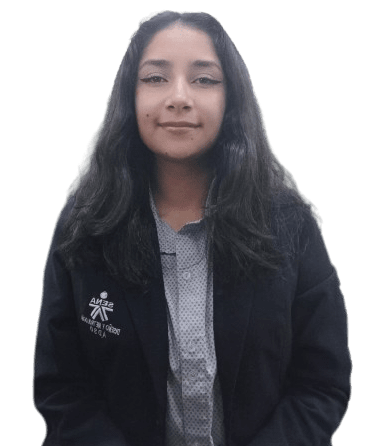
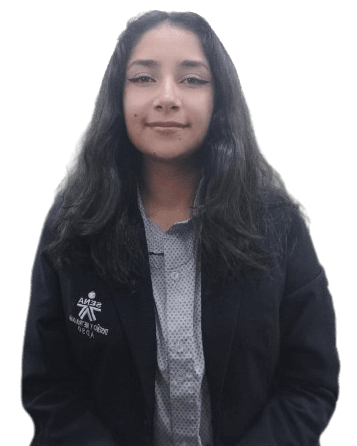
Cositas

diff --git a/Views/css/style.css b/Views/css/style.css
@@ -581,11 +581,6 @@ button {
   box-shadow: 0px 1px 3px 0px rgba(0, 0, 0, 0.1);
 }
 
-.card-height{
-  min-height: 260px !important;
-  max-height: 260px !important;
-}
-
 .num-donar{
   font-size:20px;
   color: #333333;

diff --git a/Views/clientSite/aboutUs.php b/Views/clientSite/aboutUs.php
@@ -60,13 +60,13 @@
       <div class="col-lg-12 pt-5 pt-lg-0 text-center">
         <div class="about-content">
           <h3 class="font-weight-bold">Introducción</h3>
-          <p class="">Con el imparable avance de la tecnología y la creciente demanda de soluciones innovadoras, es un privilegio presentar a nuestro excepcional team de tecnólogos en desarrollo de software que encarnan los valores fundamentales de un equipo sobresaliente y destacan por sus habilidades de programación excepcionales. Quedará claro cómo su dedicación a los principios del trabajo en equipo y su destreza en la programación se combinan para crear un conjunto verdaderamente ejemplar de talentos en el mundo del desarrollo de software.</p>
+          <p>Con el imparable avance de la tecnología y la creciente demanda de soluciones innovadoras, es un privilegio presentar a nuestro excepcional team de tecnólogos en desarrollo de software que encarnan los valores fundamentales de un equipo sobresaliente y destacan por sus habilidades de programación excepcionales. Quedará claro cómo su dedicación a los principios del trabajo en equipo y su destreza en la programación se combinan para crear un conjunto verdaderamente ejemplar de talentos en el mundo del desarrollo de software.</p>
         </div>
       </div>
       <div class="col-lg-12 pt-5 pt-lg-0 text-center">
         <div class="about-content">
           <h3 class="font-weight-bold">¿Cómo podemos ayudar?</h3>
-          <p class="">La colaboración y la diversidad de habilidades en nuesto equipo pueden dar lugar a soluciones innovadoras y creativas, puedemos implementar metodologías ágiles de desarrollo de software con eficiencia nuestra comunicación abierta y la colaboración constante permiten una rápida adaptación a los cambios, mejorando la calidad y la entrega puntual de los proyectos y nuestra combinación de habilidades técnicas sólidas y la capacidad de trabajo en equipo puede abordar problemas tecnológicos complejos de manera eficiente.</p>
+          <p>La colaboración y la diversidad de habilidades en nuesto equipo pueden dar lugar a soluciones innovadoras y creativas, puedemos implementar metodologías ágiles de desarrollo de software con eficiencia nuestra comunicación abierta y la colaboración constante permiten una rápida adaptación a los cambios, mejorando la calidad y la entrega puntual de los proyectos y nuestra combinación de habilidades técnicas sólidas y la capacidad de trabajo en equipo puede abordar problemas tecnológicos complejos de manera eficiente.</p>
         </div>
       </div>
     </div>
@@ -83,7 +83,7 @@
       </div>
       <div class="col-lg-2 col-sm-12 mt-5">
         <div class="card my-3 my-lg-0 p-0 cardsFotos">
-          <img class="card-img-top card-height" src="../../Uploads/usuarios/Santiago.png" class="img-fluid w-100" alt="Card image cap">
+          <img class="card-img-top img-fluid w-100" src="../../Uploads/usuarios/Santiago.png" alt="Card image cap">
           <div class="card-body bg-gray text-center">
             <h5 class="card-title">Santiago Gutiérrez</h5>
             <p class="card-text">Analista y Desarrollador de Software</p>
@@ -93,7 +93,7 @@
       </div>
       <div class="col-lg-2 col-sm-12 mt-5">
         <div class="card my-3 my-lg-0 p-0 cardsFotos">
-          <img class="card-img-top card-height" src="../../Uploads/usuarios/Diana.png" class="img-fluid w-100" alt="Card image cap">
+          <img class="card-img-top img-fluid w-100" src="../../Uploads/usuarios/Diana.png" alt="Card image cap">
           <div class="card-body bg-gray text-center">
             <h5 class="card-title">Diana Ramírez</h5>
             <p class="card-text">Analista y Desarrollador de Software</p>
@@ -103,7 +103,7 @@
       </div>
       <div class="col-lg-2 col-sm-12 mt-5">
         <div class="card my-3 my-lg-0 p-0 cardsFotos">
-          <img class="card-img-top card-height" src="../../Uploads/usuarios/Johan.png" class="img-fluid w-100" alt="Card image cap">
+          <img class="card-img-top img-fluid w-100" src="../../Uploads/usuarios/Johan.png" alt="Card image cap">
           <div class="card-body bg-gray text-center">
             <h5 class="card-title">Johan Echavez</h5>
             <p class="card-text">Analista y Desarrollador de Software</p>
@@ -113,7 +113,7 @@
       </div>
       <div class="col-lg-2 col-sm-12 mt-5">
         <div class="card my-3 my-lg-0 p-0 cardsFotos">
-          <img class="card-img-top card-height" src="../../Uploads/usuarios/Ricardo.png" class="img-fluid w-100" alt="Card image cap">
+          <img class="card-img-top img-fluid w-100" src="../../Uploads/usuarios/Ricardo.png" alt="Card image cap">
           <div class="card-body bg-gray text-center">
             <h5 class="card-title">Ricardo Reyes</h5>
             <p class="card-text">Analista y Desarrollador de Software</p>
@@ -123,7 +123,7 @@
       </div>
       <div class="col-lg-2 col-sm-12 mt-5">
         <div class="card my-3 my-lg-0 p-0 cardsFotos">
-          <img class="card-img-top card-height" src="../../Uploads/usuarios/Andersson.png" class="img-fluid w-100" alt="Card image cap">
+          <img class="card-img-top img-fluid w-100" src="../../Uploads/usuarios/Andersson.png" alt="Card image cap">
           <div class="card-body bg-gray text-center">
             <h5 class="card-title">Andersson Acosta</h5>
             <p class="card-text">Analista y Desarrollador de Software</p>

diff --git a/Models/consultas.php b/Models/consultas.php
@@ -1221,6 +1221,23 @@ class Consultas
         echo "<script> location.href='../Views/homeAdministrador/perfil.php' </script>";
     }
 
+    public function actualizarFotoCliente($id, $foto){
+        $objConexion = new Conexion();
+        $conexion = $objConexion->get_conexion();
+
+        $actualizar = " UPDATE tbl_users SET foto=:foto WHERE id_user=:id ";
+        $result = $conexion->prepare($actualizar);
+
+        $result->bindParam(":id", $id);
+        $result->bindParam(":foto", $foto);
+
+
+        $result->execute();
+
+        echo '<script> alert("Foto de perfil actualizada") </script>';
+        echo "<script> location.href='../Views/homeClient/perfil.php' </script>";
+    }
+
     public function actualizarClaveAdmin($id, $claveMd){
         $objConexion = new Conexion();
         $conexion = $objConexion->get_conexion();
@@ -1255,6 +1272,23 @@ class Consultas
         echo "<script> location.href='../Views/homeFundacion/perfil.php' </script>";
     }
 
+    public function actualizarClaveCliente($id, $claveMd){
+        $objConexion = new Conexion();
+        $conexion = $objConexion->get_conexion();
+
+        $actualizar = " UPDATE tbl_users SET clave=:claveMd WHERE id_user=:id ";
+        $result = $conexion->prepare($actualizar);
+
+        $result->bindParam(":id", $id);
+        $result->bindParam(":claveMd", $claveMd);
+
+
+        $result->execute();
+
+        echo '<script> alert("Clave actualizada correctamente") </script>';
+        echo "<script> location.href='../Views/homeClient/perfil.php' </script>";
+    }
+
     //Dashboard Fundacion
 
     public function modificarCuentaFundacion($id, $tipo_doc, $nombre, $email, $telefono){
@@ -1275,6 +1309,28 @@ class Consultas
 
         echo '<script> alert("Información de fundación actualizada") </script>';
         echo "<script> location.href='../Views/homeFundacion/perfil.php' </script>";
+
+        
+    }
+
+    public function modificarCuentaCliente($id, $tipo_doc, $nombre, $email, $telefono){
+        $objConexion = new Conexion();
+        $conexion = $objConexion->get_conexion();
+
+        $actualizar = "UPDATE tbl_users SET cod_tipo_doc_fk=:tipo_doc, nombre=:nombre, email=:email, telefono=:telefono WHERE id_user=:id";
+
+        $result = $conexion->prepare($actualizar);
+
+        $result->bindParam(":id", $id);
+        $result->bindParam(":tipo_doc", $tipo_doc);
+        $result->bindParam(":nombre", $nombre);
+        $result->bindParam(":email", $email);
+        $result->bindParam(":telefono", $telefono);
+
+        $result->execute();
+
+        echo '<script> alert("Información de perfil actualizada") </script>';
+        echo "<script> location.href='../Views/homeClient/perfil.php' </script>";
 
         
     }

diff --git a/Controllers/mostrarInfoClient.php b/Controllers/mostrarInfoClient.php
@@ -146,7 +146,7 @@ function perfilEditar()
         
                     <div class="p-5 tab-pane fade show active" id="home" role="tabpanel" aria-labelledby="home-tab">
         
-                        <form action="../../Controllers/modificarCuentaFundacion.php" method="POST" enctype="multipart/form-data">
+                        <form action="../../Controllers/modificarCuentaCliente.php" method="POST" enctype="multipart/form-data">
                             <div class="row">
         
                                 <div class="form-group col-lg-6">
@@ -156,10 +156,11 @@ function perfilEditar()
         
                                 <div class="form-group col-lg-6">
                                     <label>Tipo de Identificación:</label>
-                                    <select disabled required name="tipo_doc" id="" class="form-control">
+                                    <select required name="tipo_doc" id="" class="form-control">
                                         <option value="' . $f['cod_tipo_doc'] . '">' . $f['tipo_doc'] . '</option>
-                                        <option value="4">NIT</option>
                                         <option value="1">CC</option>
+                                        <option value="2">CE</option>
+                                        <option value="3">PASAPORTE</option>
                                     </select>
                                 </div>
         
@@ -187,7 +188,7 @@ function perfilEditar()
         
 
                     <div class="p-5 tab-pane fade" id="profile" role="tabpanel" aria-labelledby="profile-tab">
-                    <form action="../../Controllers/modificarFotoAdmin.php" method="POST" enctype="multipart/form-data">
+                    <form action="../../Controllers/modificarFotoCliente.php" method="POST" enctype="multipart/form-data">
                         <div class="row">
                             <div class="form-group col-lg-6">
                                 <label class="mtop-4">Identificación:</label>
@@ -208,7 +209,7 @@ function perfilEditar()
         
         
                     <div class="p-5 tab-pane fade" id="contact" role="tabpanel" aria-labelledby="contact-tab">
-                        <form action="../../Controllers/modificarClaveAdmin.php" method="POST" enctype="multipart/form-data">
+                        <form action="../../Controllers/modificarClaveCliente.php" method="POST" enctype="multipart/form-data">
                             <div class="row">
                                 <div class="form-group col-lg-12">
                                     <label class="mtop-4">Identificación:</label>

diff --git a/Models/generarClaveModel.php b/Models/generarClaveModel.php
@@ -115,7 +115,7 @@ require '../PHPMailer/SMTP.php';
                 
                 $mail->send();
                 echo '<script>alert("Mensaje enviado")</script>';
-                echo '<script> location.href="../Views/ClientSite/login.php"</script>';
+                echo '<script> location.href="../Views/clientSite/login.php"</script>';
                 } catch (Exception $e) {
                     echo "Message could not be sent. Mailer Error: {$mail->ErrorInfo}";
                 }
@@ -123,7 +123,7 @@ require '../PHPMailer/SMTP.php';
             }
             else{
                 echo '<script> alert("Los datos de usuario no se encuentran en el sistema")</script>';
-                echo '<script> location.href="../Views/ClientSite/reset_password.php"</script>';
+                echo '<script> location.href="../Views/clientSite/reset_password.php"</script>';
             }
         }
     }

diff --git a/Controllers/modificarClaveCliente.php b/Controllers/modificarClaveCliente.php
@@ -1,0 +1,26 @@
+<?php
+      // Enlazamos las dependencias necesarias
+      require_once("../Models/conexion.php");
+      require_once("../Models/consultas.php");
+
+      // Aterrizamos en variable los datos ingresados por el usuario los cuales viaja a traves del metodo post y los names de los campos
+
+      $id = $_POST['id_user'];
+      $clave = $_POST['clave'];
+      $clave2 = $_POST['clave2'];
+
+            //VALIDAMOS QUE LOS CAMPOS ESTEN COMPLETAMENTE DILIGENCIADOS
+
+      if ($clave == $clave2){
+        $claveMd = md5($clave);
+
+        $objConsultas = new Consultas();
+        $result = $objConsultas->actualizarClaveCliente($id, $claveMd);
+
+      }
+      else{
+            echo '<script> alert("Las clacves no coinciden, intentelo de nuevo") </script>';
+            echo "<script> location.href='../Views/homeClient/perfil.php?id=$id'</script>";
+      }
+
+?>

diff --git a/Controllers/modificarCuentaCliente.php b/Controllers/modificarCuentaCliente.php
@@ -1,0 +1,20 @@
+<?php
+      // Enlazamos las dependencias necesarias
+      require_once("../Models/conexion.php");
+      require_once("../Models/consultas.php");
+
+      // Aterrizamos en variable los datos ingresados por el usuario los cuales viaja a traves del metodo post y los names de los campos
+
+      $id = $_POST['id_user'];
+      $tipo_doc = $_POST['tipo_doc'];
+      $nombre = $_POST['nombre'];
+      $email = $_POST['email'];
+      $telefono = $_POST['telefono'];
+
+      //Creamos el objeto a partir de la clase
+      //Para enviar los argumentos a la función en el modelo (archivo consultas)
+      $objConsultas = new Consultas ();
+      $result = $objConsultas->modificarCuentaCliente($id, $tipo_doc, $nombre, $email, $telefono);
+
+
+?>

diff --git a/Views/homeClient/nav-cliente.php b/Views/homeClient/nav-cliente.php
@@ -33,7 +33,7 @@
                     <a class="nav-link login-button nav-button w-1" href="perfil.php">Editar Perfil</a>
                 </li>
                 <li class="nav-item">
-                    <input type="button" id="open" class="nav-link login-button nav-button w-1" value="Cerrar Sesión">
+                    <input type="button" id="open" class="nav-link login-button nav-button w-1" style="font-family: 'Montserrat', sans-serif !important;" value="Cerrar Sesión">
                 </li>
             </ul>
           </div>

diff --git a/Controllers/modificarFotoCliente.php b/Controllers/modificarFotoCliente.php
@@ -1,0 +1,14 @@
+<?php
+      require_once("../Models/conexion.php");
+      require_once("../Models/consultas.php");
+
+    $id = $_POST['id_user'];
+
+    $foto = "../Uploads/usuarios/".$_FILES['foto']['name'];
+
+    $mover = move_uploaded_file($_FILES['foto']['tmp_name'],$foto);
+
+    $objConsultas = new Consultas();
+    $result = $objConsultas->actualizarFotoCliente($id, $foto);
+
+?>
